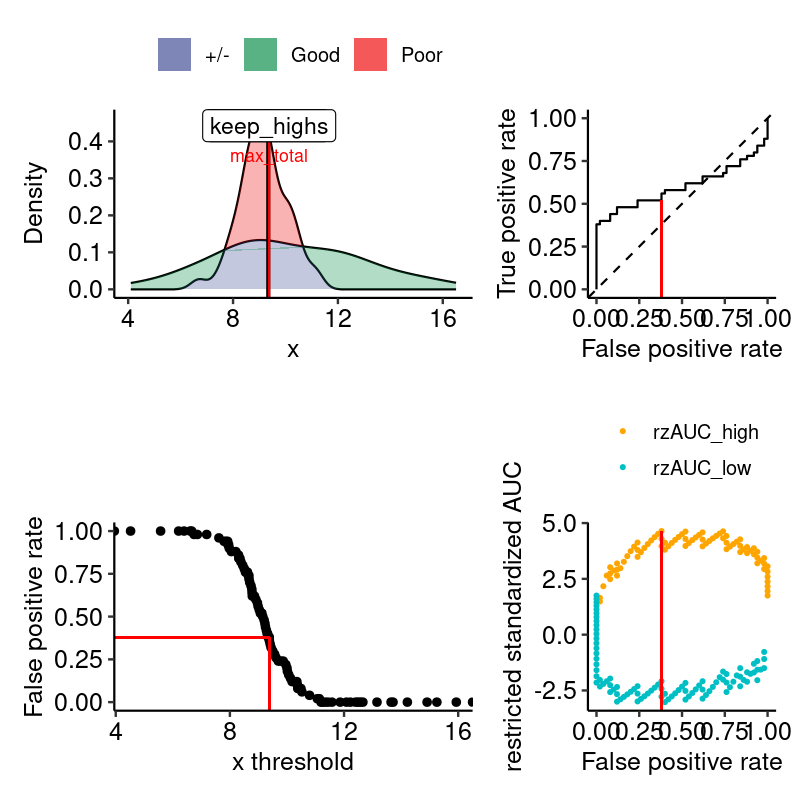
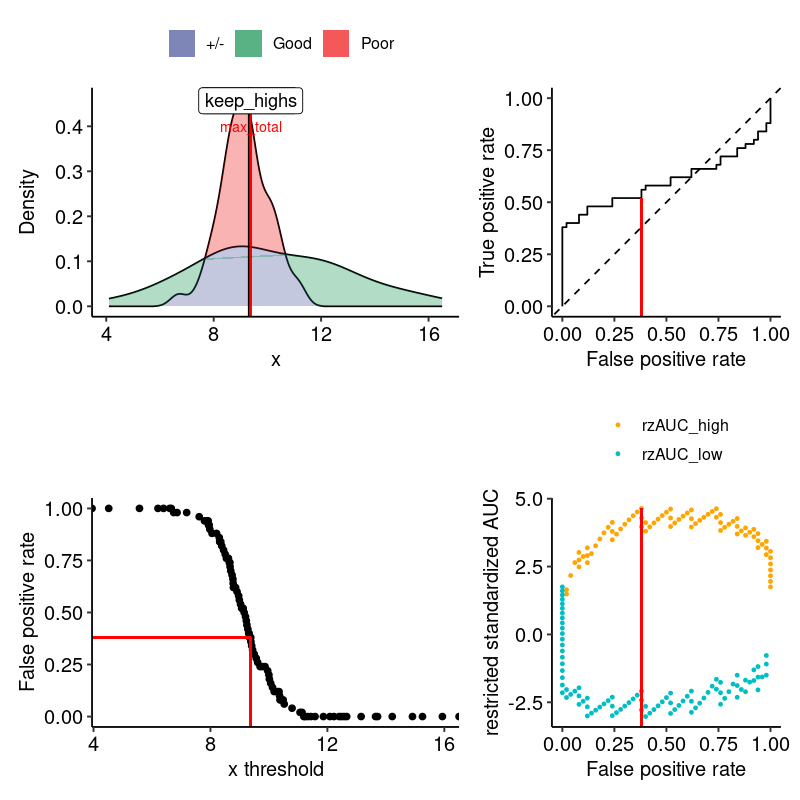
example-png size changed

diff --git a/README.md b/README.md
@@ -71,7 +71,7 @@ res_rroc <- restrictedROC::rROC(
     positive_label = "Good",
     n_permutations = 100 # increase that in real data!
 )
-#> Tue Dec  5 09:07:13 2023      y x ( 1 )
+#> Tue Dec  5 09:16:34 2023      y x ( 1 )
 ```
 
 `res_rroc` is a nested list where the first level contains all dependent
@@ -106,7 +106,7 @@ res_rroc <- restrictedROC::rROC(
     positive_label = "Good",
     n_permutations = 100 # increase that in real data!
 )
-#> Tue Dec  5 09:07:16 2023      outcome biomarker ( 1 )
+#> Tue Dec  5 09:16:36 2023      outcome biomarker ( 1 )
 ```
 
 ``` r
@@ -170,7 +170,7 @@ We have a convenient way to visualize the data and the results:
 
 ``` r
 grouped_data <- split(biodata$biomarker, biodata$outcome)
-png("man/figures/example.png", width = 800, height = 800, res = 150)
+png("man/figures/example.png", width = 800, height = 800, res = 120)
 print(
     restrictedROC::plot_density_rROC_empirical(
         values_grouped = grouped_data,
